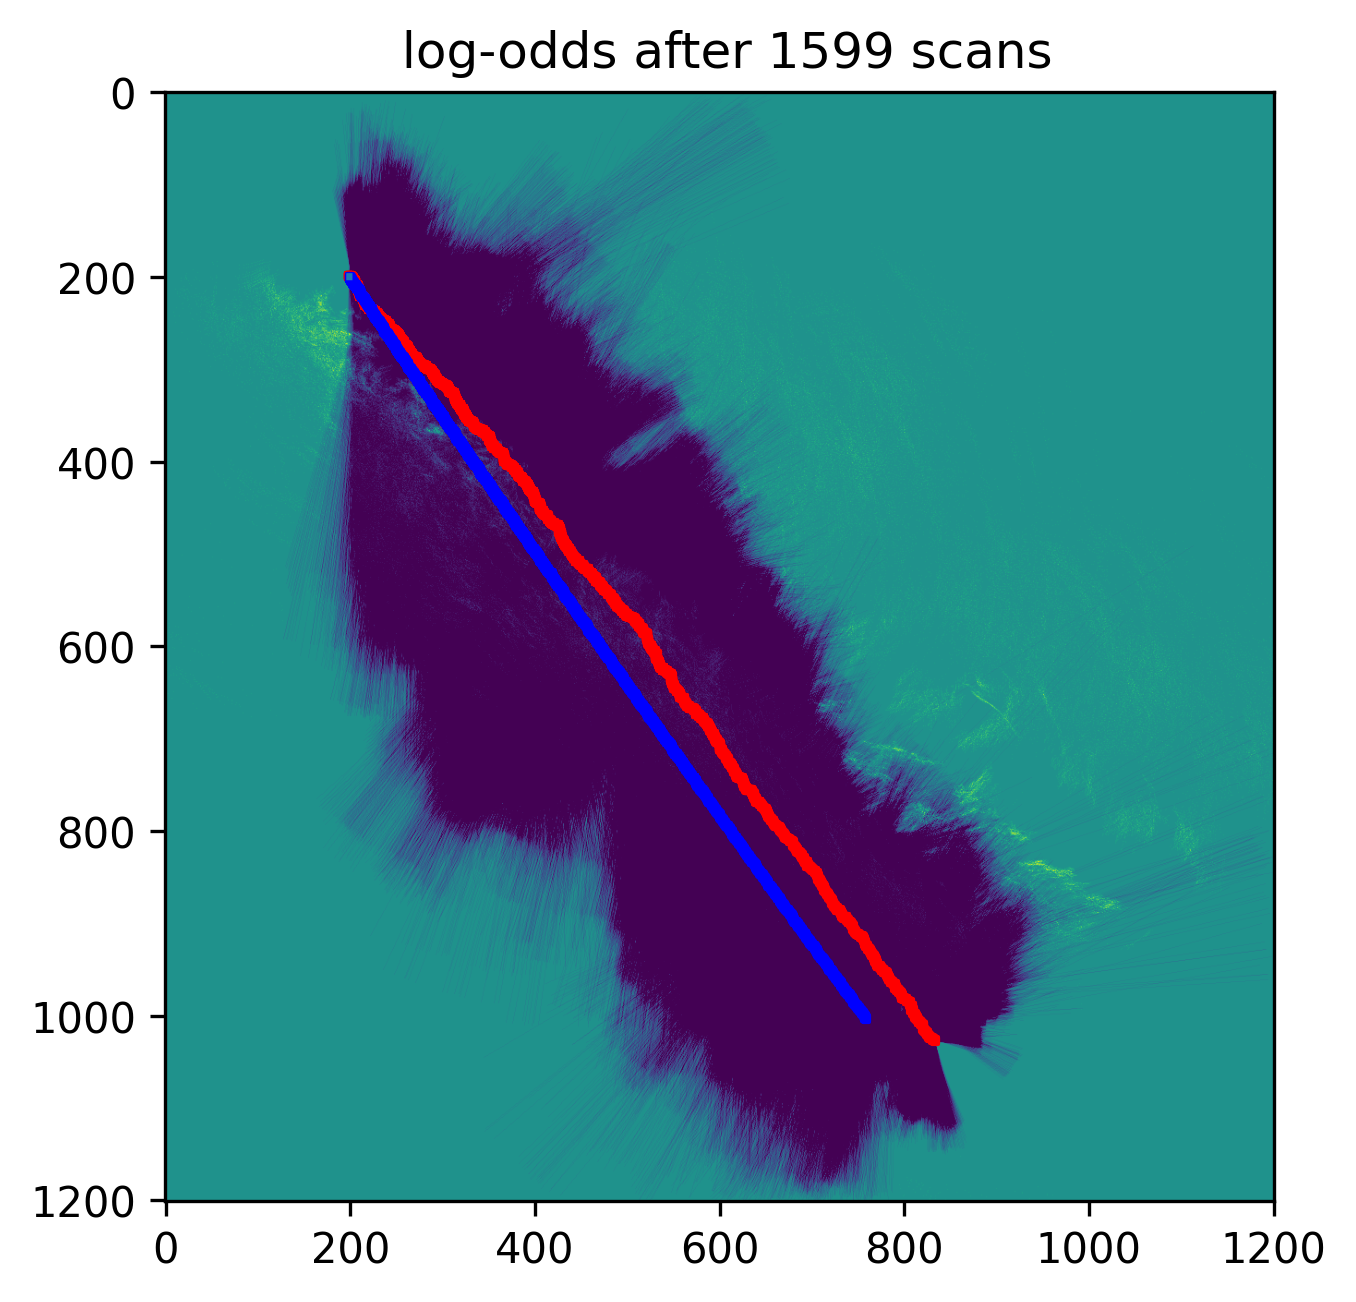
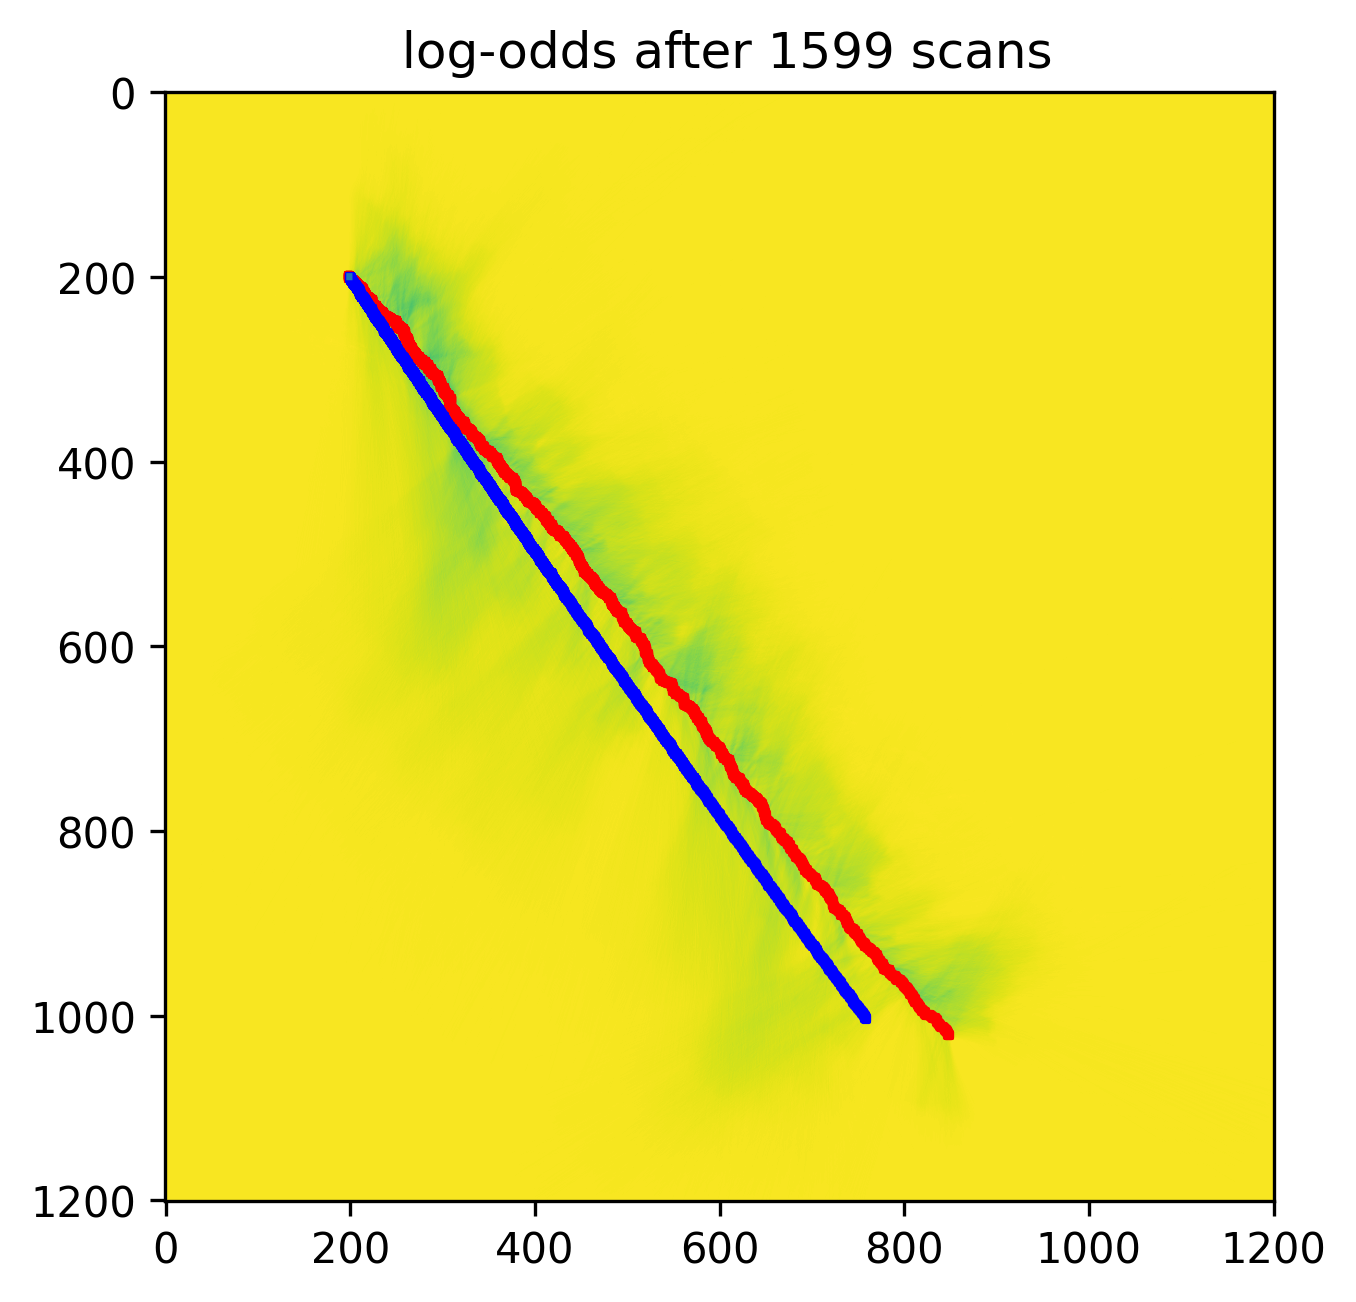
replace map['plot'] in updateMap with submap

diff --git a/ECE-276A/Project-2/code/occupancy_grid_map.py b/ECE-276A/Project-2/code/occupancy_grid_map.py
@@ -39,7 +39,7 @@ def initializeMap(res, xmin, ymin, xmax, ymax, trust = None, optimism = None, oc
     MAP['occupied_thresh'] = np.log(occupied_thresh / (1 - occupied_thresh))
     MAP['free_thresh'] = np.log(free_thresh / (1 - free_thresh))
     (h, w) = MAP['map'].shape
-    MAP['plot'] = np.zeros((h, w, 3), np.uint8) 
+    MAP['plot'] = np.ones((h, w, 3), np.uint8) * 127
     
     return MAP 
 
@@ -57,7 +57,6 @@ def updateMap(MAP, x_w, y_w, x_cur, y_cur):
     x_cur_m, y_cur_m = transformation.worldToMap(MAP, x_cur, y_cur)
     
     # check whether it's out of range of image size
-    start_time = time()
     indvalid = np.logical_and(np.logical_and(np.logical_and((x_m > 1), (y_m > 1)), (x_m < MAP['sizex'])),(y_m < MAP['sizey']))
     x_m = x_m[indvalid]
     y_m = y_m[indvalid]
@@ -73,11 +72,10 @@ def updateMap(MAP, x_w, y_w, x_cur, y_cur):
     x_m = np.append(x_m, x_cur_m) # Must consider robot's current cell
     y_m = np.append(y_m, y_cur_m)
     contours = np.vstack((x_m, y_m)) # SWITCH
-    
-    
 
     # find the cells that are free, and update the map
     #cv2.drawContours(free_grid, [contours.T], -1, MAP['free'], -1) 
+    
     for i in range(contours.shape[1]):
         hit_x_m, hit_y_m = x_m[i], y_m[i]
         frees = bresenham2D(x_cur_m, y_cur_m, hit_x_m, hit_y_m)
@@ -88,24 +86,28 @@ def updateMap(MAP, x_w, y_w, x_cur, y_cur):
 
         MAP['map'][frees[1,:].astype(int),frees[0,:].astype(int)] += MAP['free']
     
-    
     # prevent overconfidence
-    MAP['map'][MAP['map'] > MAP['confidence_limit']] = MAP['confidence_limit']
-    MAP['map'][MAP['map'] < -MAP['confidence_limit']] = -MAP['confidence_limit']
+    start_time = time()
+    #MAP['map'][MAP['map'] > MAP['confidence_limit']] = MAP['confidence_limit']
+    #MAP['map'][MAP['map'] < -MAP['confidence_limit']] = -MAP['confidence_limit']
+    #
     
     # update plot
-    occupied_grid = MAP['map'] > 0#MAP['occupied_thresh']
-    free_grid = MAP['map'] < 0#MAP['free_thresh']
+    occupied_grid = MAP['map'][0:x_cur_m+800,0:x_cur_m+800] > 0#MAP['occupied_thresh']
+    free_grid = MAP['map'][0:x_cur_m+800,0:x_cur_m+800] < 0#MAP['free_thresh']
+    MAP['plot'][0:x_cur_m+800,0:x_cur_m+800][occupied_grid] = [0, 0, 0]
+    MAP['plot'][0:x_cur_m+800,0:x_cur_m+800][free_grid] = [255, 255, 255] 
     
-    
-    MAP['plot'][occupied_grid] = [0, 0, 0]
-    MAP['plot'][free_grid] = [255, 255, 255] 
+    #MAP['plot'][occupied_grid] = [0, 0, 0]
+    #MAP['plot'][free_grid] = [255, 255, 255] 
+    MAP['plot'][y_m, x_m] = [255, 0, 0] # plot latest lidar scan hits
     print(time()-start_time)
-    MAP['plot'][np.logical_and(np.logical_not(free_grid), np.logical_not(occupied_grid))] = [127, 127, 127]
+    
+    #MAP['plot'][np.logical_and(np.logical_not(free_grid), np.logical_not(occupied_grid))] = [127, 127, 127]
+    
     #plt.imshow(MAP['plot'])
     #plt.savefig('occupied_grid')
     #plt.close()
     
     #x_m, y_m = transformation.worldToMap(MAP, x_w, y_w)
-    MAP['plot'][y_m, x_m] = [255, 0, 0]    # plot latest lidar scan hits
     

diff --git a/ECE-276A/Project-2/code/particle.py b/ECE-276A/Project-2/code/particle.py
@@ -55,7 +55,7 @@ def updateParticles(PARTICLES, MAP, x_l, y_l, TRAJECTORY_m, init=False):
         cur_x_m, cur_y_m = 200-1, 200-1
 
     plot = MAP['plot']
-    plot = plot[cur_x_m-150+1:cur_x_m+800+1,cur_y_m-150+1:cur_y_m+800+1,:]
+    plot = plot[cur_x_m-150:cur_x_m+800,cur_y_m-150:cur_y_m+800,:] ######
     _, plot = cv2.threshold(MAP['plot'], 127, 255, cv2.THRESH_BINARY) ####### slow
 
     map_shape = plot.shape
